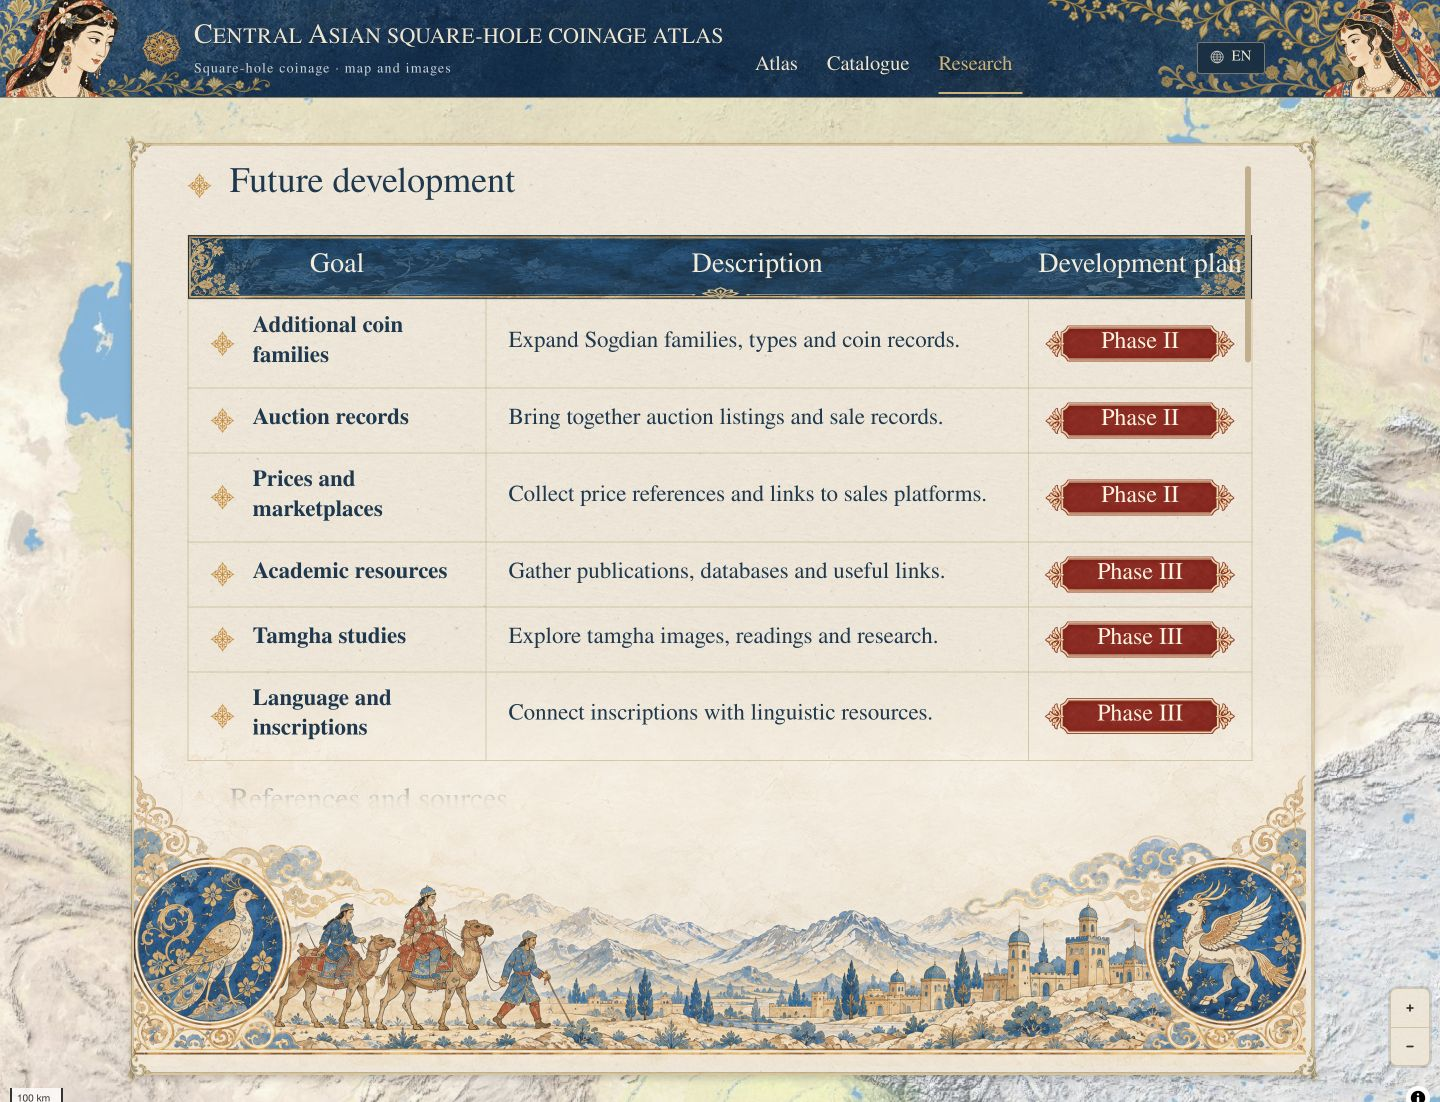
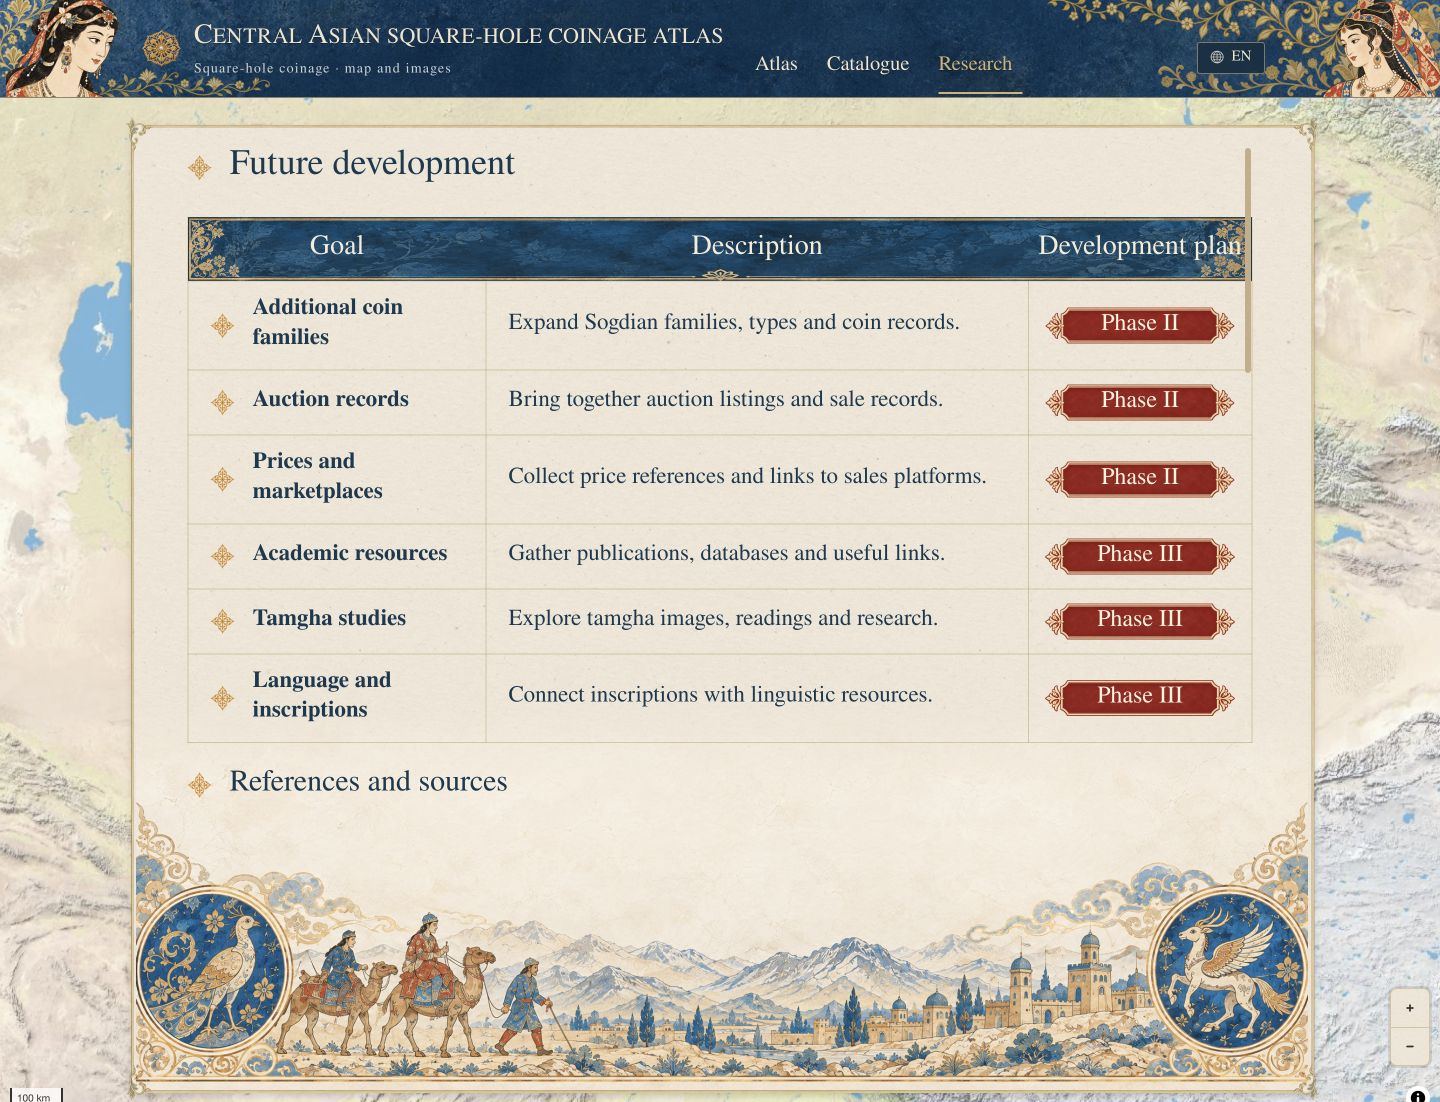
fix(research): halve vertical margins and align footer to frame

diff --git a/app/research-visual.css b/app/research-visual.css
@@ -2,11 +2,11 @@
 .view-research .atlas-screen{position:absolute;inset:var(--atlas-header) 0 0;height:calc(100dvh - var(--atlas-header));pointer-events:none;z-index:0}
 .view-research .atlas-screen .atlas-map-stage{width:100%;flex:1}
 .view-research .atlas-screen :is(.family-drawer,.atlas-search-panel,.timeline-floating,.map-toolbar,.history-controls,.map-error,.map-empty){display:none}
-.view-research .research-page{position:relative;z-index:1;height:calc(100dvh - var(--atlas-header));min-height:0;max-width:none;margin:0;padding:36px 120px;box-sizing:border-box;background:transparent;color:var(--atlas-ink);font:22px/1.45 var(--atlas-serif);overflow:hidden}
+.view-research .research-page{position:relative;z-index:1;height:calc(100dvh - var(--atlas-header));min-height:0;max-width:none;margin:0;padding:18px 120px;box-sizing:border-box;background:transparent;color:var(--atlas-ink);font:22px/1.45 var(--atlas-serif);overflow:hidden}
 .research-frame.catalogue-frame{--research-footer-height:400px;--research-fade:40px;width:100%;height:100%;display:block;padding:0}
 /* Blend only the asset’s empty upper paper strip; all illustrated subjects stay opaque. */
-.research-footer-art{position:absolute;left:14px;bottom:18px;width:calc(100% - 28px);height:auto;max-height:none;z-index:0;opacity:1;pointer-events:none;user-select:none;mask-image:linear-gradient(to bottom,transparent,#000 20%,#000)}
-.research-scroll{position:absolute;z-index:1;top:30px;left:clamp(26px,4.7vw,68px);right:clamp(26px,4.7vw,68px);bottom:calc(var(--research-footer-height)*.64 + 18px);overflow:auto;overscroll-behavior:contain;scrollbar-width:thin;scrollbar-color:#c5ad89 transparent;mask-image:linear-gradient(to bottom,#000 0,#000 calc(100% - var(--research-fade)),rgba(0,0,0,.343) calc(100% - var(--research-fade)*.7),rgba(0,0,0,.043) calc(100% - var(--research-fade)*.35),transparent 100%)}
+.research-footer-art{position:absolute;left:16px;bottom:9px;width:calc(100% - 28px);height:auto;max-height:none;z-index:0;opacity:1;pointer-events:none;user-select:none;mask-image:linear-gradient(to bottom,transparent,#000 20%,#000)}
+.research-scroll{position:absolute;z-index:1;top:30px;left:clamp(26px,4.7vw,68px);right:clamp(26px,4.7vw,68px);bottom:calc(var(--research-footer-height)*.64 + 9px);overflow:auto;overscroll-behavior:contain;scrollbar-width:thin;scrollbar-color:#c5ad89 transparent;mask-image:linear-gradient(to bottom,#000 0,#000 calc(100% - var(--research-fade)),rgba(0,0,0,.343) calc(100% - var(--research-fade)*.7),rgba(0,0,0,.043) calc(100% - var(--research-fade)*.35),transparent 100%)}
 .research-content{padding:0 0 calc(var(--research-fade) + 60px);min-width:0}
 .research-content :is(h1,h2){display:flex;align-items:center;gap:18px;line-height:1.2;color:var(--atlas-ink);margin:0 0 28px;font-family:var(--atlas-serif)}
 .research-content h1{font-size:36px}.research-content h2{font-size:30px;margin:24px 0 16px}
@@ -34,10 +34,10 @@
 .research-contact{padding-top:4px}.research-contact>a{font-size:22px}
 .research-scroll:focus-visible,.research-content :is(a,summary):focus-visible{outline:2px solid #306681;outline-offset:3px}
 @media(max-width:760px){
- .view-research .research-page{padding:12px 30px;font-size:16px}
+ .view-research .research-page{padding:6px 30px;font-size:16px}
  .research-frame.catalogue-frame{--research-fade:28px}
- .research-footer-art{left:12px;bottom:15px;width:calc(100% - 24px)}
- .research-scroll{top:26px;left:23px;right:23px;bottom:calc(var(--research-footer-height)*.64 + 15px)}
+ .research-footer-art{left:14px;bottom:8px;width:calc(100% - 24px)}
+ .research-scroll{top:26px;left:23px;right:23px;bottom:calc(var(--research-footer-height)*.64 + 8px)}
  .research-content :is(h1,h2){gap:10px}.research-content h1{font-size:27px;margin-bottom:22px}.research-content h2{font-size:24px}
  .research-rosette{width:19px}.research-plan{font-size:16px;line-height:1.4}
  .research-plan .plan-goal{width:32%}.research-plan .plan-description{width:43%}.research-plan .plan-phase{width:25%}
